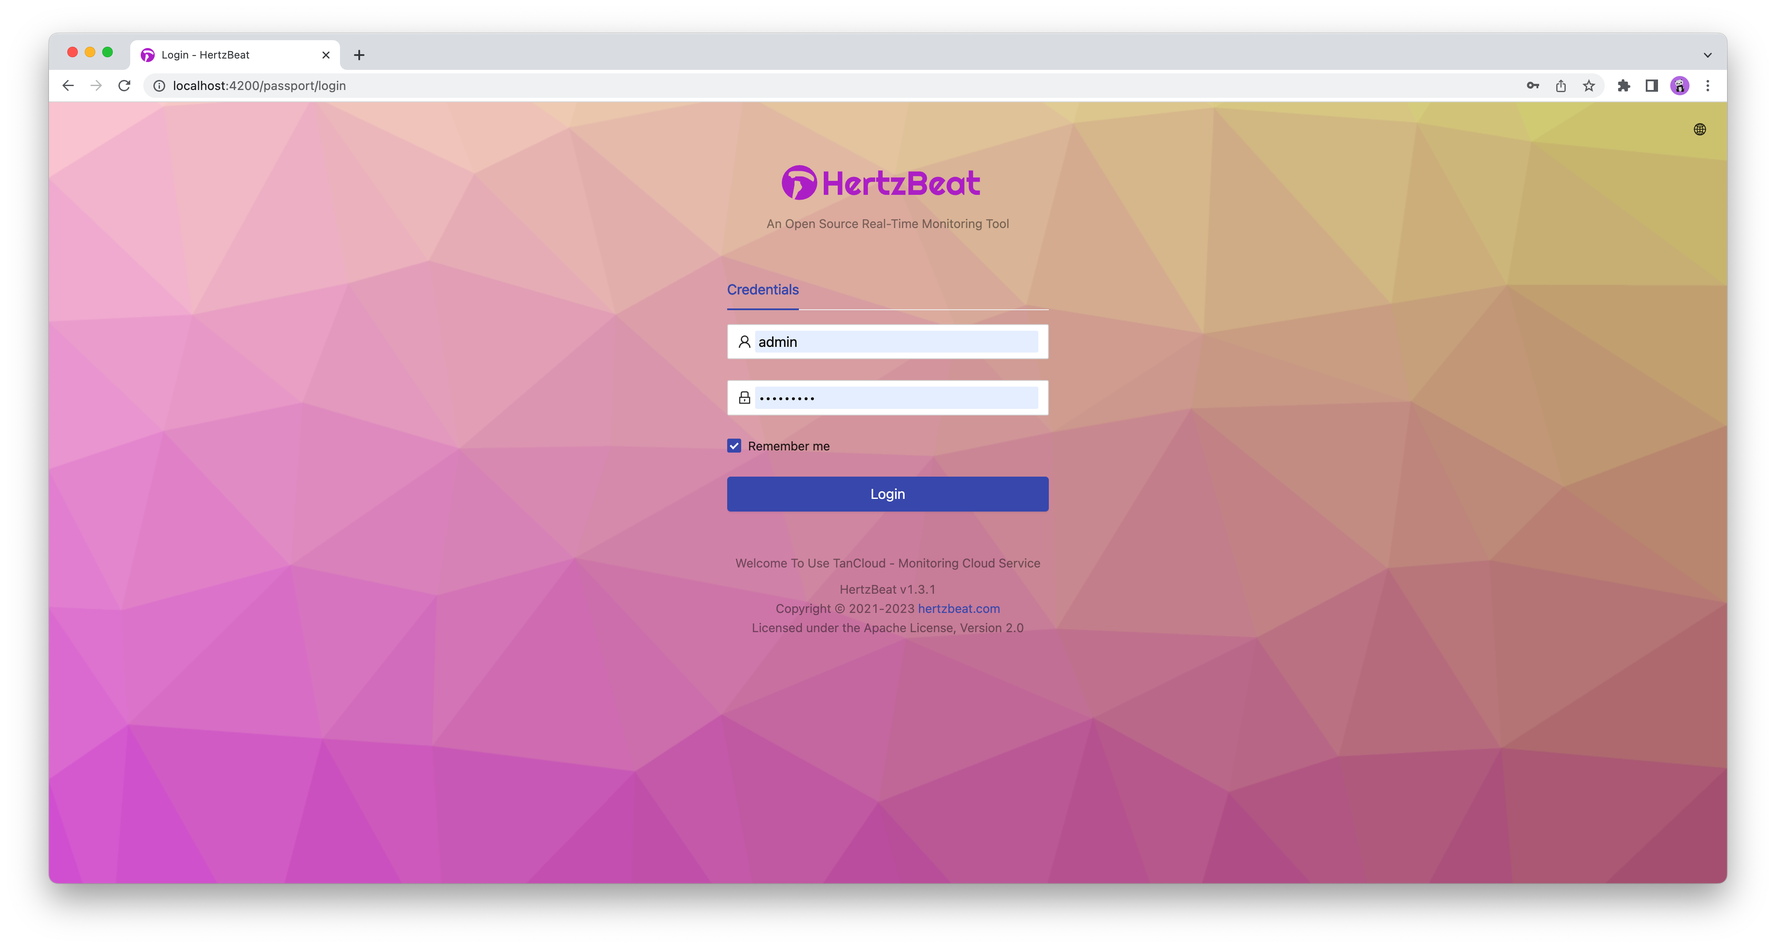
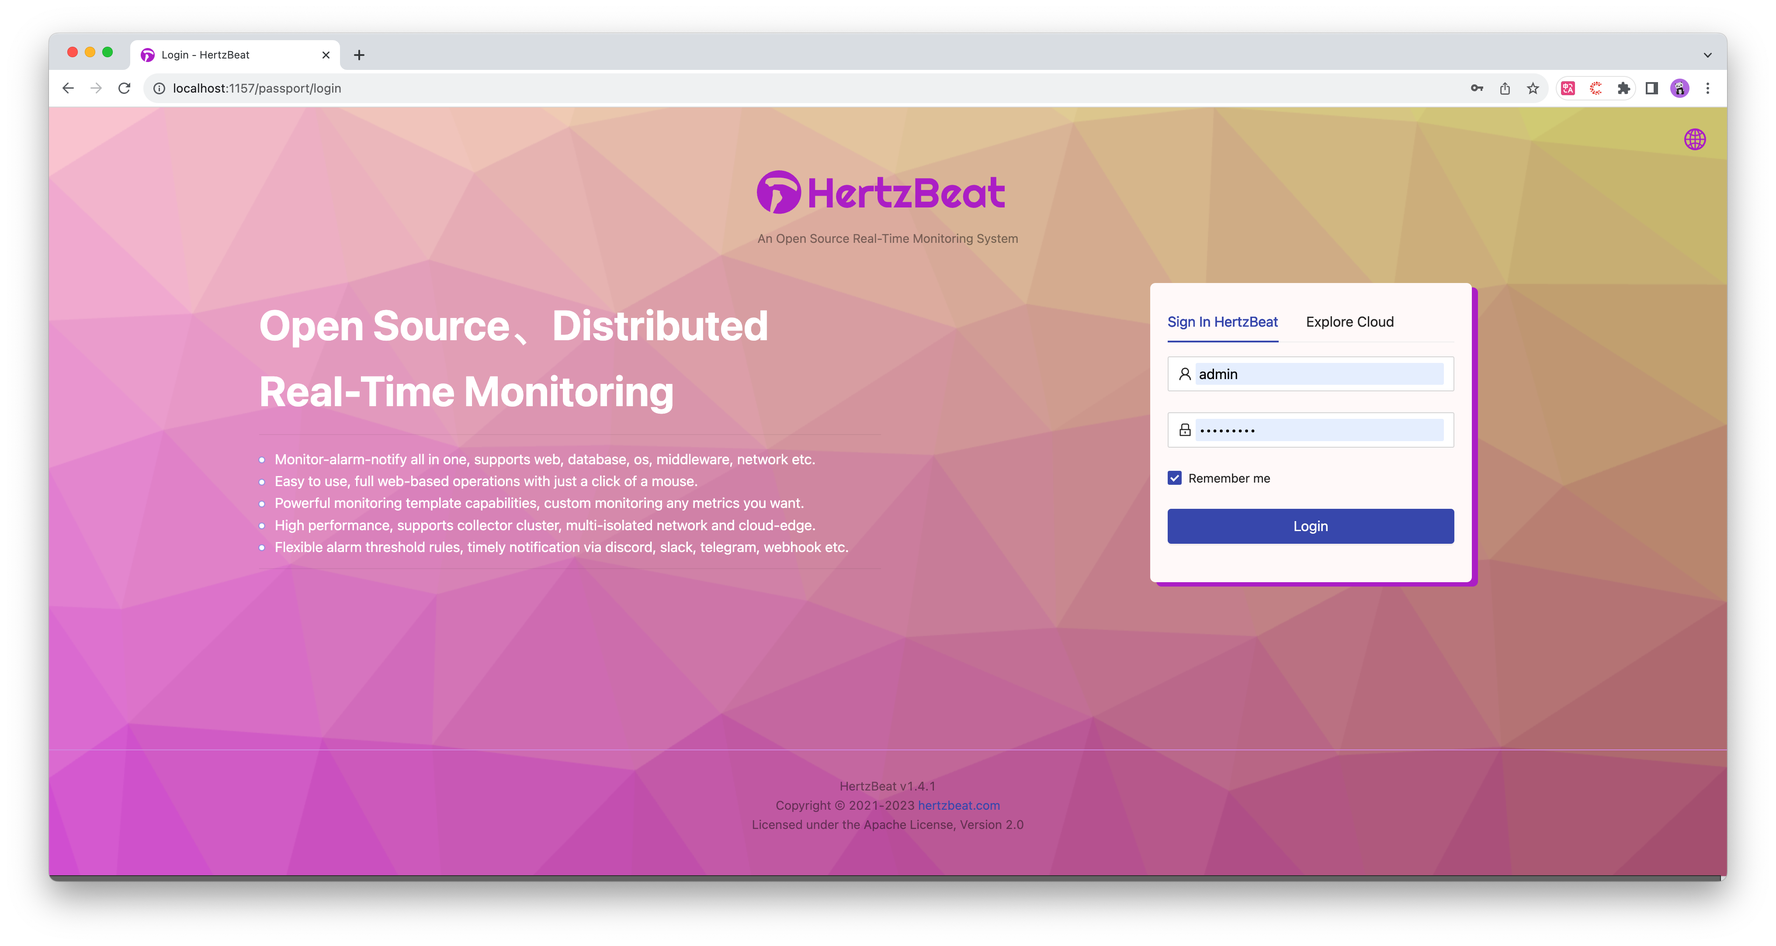
add 1.4.1 version doc

diff --git a/home/src/pages/index.js b/home/src/pages/index.js
@@ -133,6 +133,12 @@ function Home() {
                 <SwiperSlide>
                   <img
                       style={{ width: '1000px', display: 'block', margin: '0 auto' }}
+                      src={useBaseUrl('/img/home/0.png')}
+                  />
+                </SwiperSlide>
+                <SwiperSlide>
+                  <img
+                      style={{ width: '1000px', display: 'block', margin: '0 auto' }}
                       src={useBaseUrl('/img/home/1.png')}
                   />
                 </SwiperSlide>

diff --git a/home/i18n/zh-cn/docusaurus-plugin-content-blog/2023-09-26-hertzbeat-v1.4.1.md b/home/i18n/zh-cn/docusaurus-plugin-content-blog/2023-09-26-hertzbeat-v1.4.1.md
@@ -1,0 +1,166 @@
+---
+title: HertzBeat v1.4.1 发布, 更好的用户体验! 
+author: tom  
+author_title: tom   
+author_url: https://github.com/tomsun28  
+author_image_url: https://avatars.githubusercontent.com/u/24788200?s=400&v=4  
+tags: [opensource, practice]
+keywords: [open source monitoring system, alerting system, Linux monitoring]
+---
+
+![hertzBeat](/img/home/0.png)
+
+### 什么是 HertzBeat?
+
+[HertzBeat 赫兹跳动](https://github.com/dromara/hertzbeat) 是一个拥有强大自定义监控能力，高性能集群，无需 Agent 的开源实时监控告警系统。
+
+### 特点
+
+- 集 **监控+告警+通知** 为一体，支持对应用服务，数据库，操作系统，中间件，云原生，网络等监控阈值告警通知一步到位。
+- 易用友好，无需 `Agent`，全 `WEB` 页面操作，鼠标点一点就能监控告警，零上手学习成本。
+- 将 `Http,Jmx,Ssh,Snmp,Jdbc` 等协议规范可配置化，只需在浏览器配置监控模版 `YML` 就能使用这些协议去自定义采集想要的指标。您相信只需配置下就能立刻适配一款 `K8s` 或 `Docker` 等新的监控类型吗？
+- 高性能，支持多采集器集群横向扩展，支持多隔离网络监控，云边协同。
+- 自由的告警阈值规则，`邮件` `Discord` `Slack` `Telegram` `钉钉` `微信` `飞书` `短信` `Webhook` 等方式消息及时送达。
+
+
+> `HertzBeat`的强大自定义，多类型支持，高性能，易扩展，低耦合，希望能帮助开发者和团队快速搭建自有监控系统。    
+> 当然我们也提供了对应的 **[SAAS版本监控云服务](https://console.tancloud.cn)**，中小团队和个人无需再为监控自有资源而去部署一套监控系统，**[登录即可免费开始](https://console.tancloud.cn)**。
+
+![hertzBeat](/img/docs/hertzbeat-arch.png)
+
+**Github: https://github.com/dromara/hertzbeat**
+
+**Gitee: https://gitee.com/dromara/hertzbeat**
+
+### HertzBeat's 1.4.1 version is coming!
+
+- 新的登陆页面UI
+
+  <img width="1952" alt="image" src="https://github.com/dromara/hertzbeat/assets/24788200/5bc5015a-9343-472d-9754-6b06b9138893"/>
+
+  <img width="1950" alt="image" src="https://github.com/dromara/hertzbeat/assets/24788200/71a29284-9cad-4ed2-983a-50430ddb1e2f"/>
+
+- 支持采集器集群管理
+
+<img width="1943" alt="image" src="https://github.com/dromara/hertzbeat/assets/24788200/ba79f743-a450-4b01-adf0-5f15f3722c19"/>
+
+<img width="1901" alt="image" src="https://github.com/dromara/hertzbeat/assets/24788200/b090ec18-5aae-444e-9ef6-e62fd1d8d239"/>
+
+- 友好的帮助文档头
+
+<img width="1942" alt="image" src="https://github.com/dromara/hertzbeat/assets/24788200/c635fab6-504b-47de-9b7e-0c2df86f7e6a"/>
+
+- 监控指标名称国际化
+
+<img width="1802" alt="image" src="https://github.com/dromara/hertzbeat/assets/24788200/d5c74647-6c18-4b12-b858-f29cf1c61661"/>
+
+- 重构采集器调度和更多特性，更强的稳定性
+
+### 尝试部署集群版
+
+
+1. `docker` 环境仅需一条命令即可开始
+
+```docker run -d -p 1157:1157 -p 1158:1158 --name hertzbeat tancloud/hertzbeat```
+
+```或者使用 quay.io (若 dockerhub 网络链接超时)```
+
+```docker run -d -p 1157:1157 -p 1158:1158 --name hertzbeat quay.io/tancloud/hertzbeat```
+
+2. 浏览器访问 `http://localhost:1157` 即可开始，默认账号密码 `admin/hertzbeat`
+
+3. 部署采集器集群
+
+```
+docker run -d -e IDENTITY=custom-collector-name -e MANAGER_HOST=127.0.0.1 -e MANAGER_PORT=1158 --name hertzbeat-collector tancloud/hertzbeat-collector
+```
+- `-e IDENTITY=custom-collector-name` : 配置此采集器的唯一性标识符名称，多个采集器名称不能相同，建议自定义英文名称。
+- `-e MANAGER_HOST=127.0.0.1` : 配置连接主HertaBeat服务的对外IP。
+- `-e MANAGER_PORT=1158` : 配置连接主HertzBeat服务的对外端口，默认1158。
+
+更多配置详细步骤参考 [通过Docker方式安装HertzBeat](https://hertzbeat.com/docs/start/docker-deploy)
+
+
+
+----
+
+### What's Changed
+
+> 更多版本新功能更新欢迎探索，感谢社区小伙伴们的辛苦贡献，爱心💗!
+
+* bugfix npe when get undefined name monitor template yml by @tomsun28 in https://github.com/dromara/hertzbeat/pull/1173
+* [bug fixed]When importing and exporting monitoring, support export collectors, configure collectors when importing by @zqr10159 in https://github.com/dromara/hertzbeat/pull/1178
+* support alert threshold rule config system value row count by @tomsun28 in https://github.com/dromara/hertzbeat/pull/1180
+* Update README.md by @zqr10159 in https://github.com/dromara/hertzbeat/pull/1182
+* support config alert threshold tags bind by @tomsun28 in https://github.com/dromara/hertzbeat/pull/1181
+* the back-end of help component has been built by @YutingNie in https://github.com/dromara/hertzbeat/pull/1160
+* support enable alert threshold auto resolved notice by @tomsun28 in https://github.com/dromara/hertzbeat/pull/1185
+* Delete tag of the dashboard's homepage on the top four pages by @Ceilzcx in https://github.com/dromara/hertzbeat/pull/1189
+* replace obsolete `registry.npm.taobao.org` to`registry.npmmirror.com` by @zqr10159 in https://github.com/dromara/hertzbeat/pull/1192
+* refactor MonitorServiceImpl by @Carpe-Wang in https://github.com/dromara/hertzbeat/pull/1190
+* config default system timezone and fix monitor status auto recover by @tomsun28 in https://github.com/dromara/hertzbeat/pull/1187
+* update-doc-doris by @zqr10159 in https://github.com/dromara/hertzbeat/pull/1193
+* [manager] support tidb database monitoring  by @luxx-lq in https://github.com/dromara/hertzbeat/pull/733
+* refactor fix potential npe by @Carpe-Wang in https://github.com/dromara/hertzbeat/pull/1197
+* [ospp] support ui help massage component  by @YutingNie in https://github.com/dromara/hertzbeat/pull/1199
+* support monitor metrics name i18n by @tomsun28 in https://github.com/dromara/hertzbeat/pull/1198
+* support google analytics by @tomsun28 in https://github.com/dromara/hertzbeat/pull/1202
+* refactor code and fix some npe  by @Carpe-Wang in https://github.com/dromara/hertzbeat/pull/1201
+* bugfix fix found 2 dataQueue bean when not config common.queue param by @tomsun28 in https://github.com/dromara/hertzbeat/pull/1205
+* Help component update by @YutingNie in https://github.com/dromara/hertzbeat/pull/1207
+* bugfix enterprise wechat push display content is too cumbersome by @l646505418 in https://github.com/dromara/hertzbeat/pull/1149
+* bugfix WeChatAppAlertNotifyHandlerImpl by @LINGLUOJUN in https://github.com/dromara/hertzbeat/pull/1208
+* add LINGLUOJUN as a contributor for code by @allcontributors in https://github.com/dromara/hertzbeat/pull/1209
+* fix jmx jndi inject vulnerability by @luelueking in https://github.com/dromara/hertzbeat/pull/1215
+* add luelueking as a contributor for code by @allcontributors in https://github.com/dromara/hertzbeat/pull/1217
+* bugfix monitoring param number limit range by @qyaaaa in https://github.com/dromara/hertzbeat/pull/1216
+* add qyaaaa as a contributor for code by @allcontributors in https://github.com/dromara/hertzbeat/pull/1218
+* add app-ping i18n by @qyaaaa in https://github.com/dromara/hertzbeat/pull/1220
+* some codes opt by @LINGLUOJUN in https://github.com/dromara/hertzbeat/pull/1214
+* support deploy hertzbeat by kubernetes helm charts by @tomsun28 in https://github.com/dromara/hertzbeat/pull/1221
+* bugfix threshold setting template variables has repeated parameters by @qyaaaa in https://github.com/dromara/hertzbeat/pull/1223
+* support display metrics i18n label when threshold setting by @tomsun28 in https://github.com/dromara/hertzbeat/pull/1225
+* bugfix user role display not correctly on webui by @tomsun28 in https://github.com/dromara/hertzbeat/pull/1227
+* add hertzbeat about msg card by @tomsun28 in https://github.com/dromara/hertzbeat/pull/1229
+* add app-api i18n by @novohit in https://github.com/dromara/hertzbeat/pull/1236
+* add novohit as a contributor for code by @allcontributors in https://github.com/dromara/hertzbeat/pull/1238
+* [feature]Add `getAlertDefinesByName`. by @zqr10159 in https://github.com/dromara/hertzbeat/pull/1237
+* thread pool executor support shutdown gracefully by @LINGLUOJUN in https://github.com/dromara/hertzbeat/pull/1240
+* fix: expression injection RCE by @mikezzb in https://github.com/dromara/hertzbeat/pull/1241
+* [bugfix]Replace schema "{key1:value1}" to "{\"key1\":\"value1\"}" by @zqr10159 in https://github.com/dromara/hertzbeat/pull/1245
+* [Refactor] Use static methods instead of constructors for Message.java by @gcdd1993 in https://github.com/dromara/hertzbeat/pull/1247
+* bugfix snake yaml decode rce by @tomsun28 in https://github.com/dromara/hertzbeat/pull/1239
+* bugfix jackson deserialize localDatetime error by @tomsun28 in https://github.com/dromara/hertzbeat/pull/1249
+* netty as an independent module, add new feature about collector list by @Ceilzcx in https://github.com/dromara/hertzbeat/pull/1244
+* support show deploy collector script in web by @tomsun28 in https://github.com/dromara/hertzbeat/pull/1251
+* bugfix mongodb collect extra metrics npe by @tomsun28 in https://github.com/dromara/hertzbeat/pull/1257
+* bugfix fix collector run cyclic when connect auth failed by @tomsun28 in https://github.com/dromara/hertzbeat/pull/1256
+* update webapp login ui by @tomsun28 in https://github.com/dromara/hertzbeat/pull/1260
+* bugfix collector can not auto reconnect when channel idle by @tomsun28 in https://github.com/dromara/hertzbeat/pull/1259
+* update alarm notice wework app send content ui by @tomsun28 in https://github.com/dromara/hertzbeat/pull/1258
+* [hertzbeat] release hertzbeat version v1.4.1 by @tomsun28 in https://github.com/dromara/hertzbeat/pull/1261
+* auto split webhook token when user input hook url by @tomsun28 in https://github.com/dromara/hertzbeat/pull/1262
+
+----
+
+## ⛄ 已支持
+
+> 我们将监控采集类型(mysql,jvm,k8s)都定义为yml监控模版，用户可以导入这些模版来支持对应类型的监控!    
+> 欢迎大家一起贡献你使用过程中自定义的通用监控类型监控模版。
+
+- Site Monitor, Port Availability, Http Api, Ping Connectivity, Jvm, SiteMap Full Site, Ssl Certificate, SpringBoot, FTP Server
+- Mysql, PostgreSQL, MariaDB, Redis, ElasticSearch, SqlServer, Oracle, MongoDB, Damon, OpenGauss, ClickHouse, IoTDB, Redis Cluster
+- Linux, Ubuntu, CentOS, Windows
+- Tomcat, Nacos, Zookeeper, RabbitMQ, Flink, Kafka, ShenYu, DynamicTp, Jetty, ActiveMQ
+- Kubernetes, Docker
+- Huawei Switch, HPE Switch, TP-LINK Switch, Cisco Switch
+- and more for your custom monitoring.
+- Notifications support `Discord` `Slack` `Telegram` `Mail` `Pinning` `WeChat` `FlyBook` `SMS` `Webhook`.
+- 和更多自定义监控模版。
+- 通知支持 `Discord` `Slack` `Telegram` `邮件` `钉钉` `微信` `飞书` `短信` `Webhook`。
+
+----
+
+**Github: https://github.com/dromara/hertzbeat**      
+**Gitee: https://gitee.com/dromara/hertzbeat**  
+

diff --git a/home/blog/2023-09-26-hertzbeat-v1.4.1.md b/home/blog/2023-09-26-hertzbeat-v1.4.1.md
@@ -1,0 +1,160 @@
+---
+title: HertzBeat v1.4.1 released, better experience! 
+author: tom  
+author_title: tom   
+author_url: https://github.com/tomsun28  
+author_image_url: https://avatars.githubusercontent.com/u/24788200?s=400&v=4  
+tags: [opensource, practice]
+keywords: [open source monitoring system, alerting system, Linux monitoring]
+---
+
+![hertzBeat](/img/home/0.png)
+
+### What is HertzBeat?
+
+[HertzBeat](https://github.com/dromara/hertzbeat) is an open source, real-time monitoring system with custom monitoring, high performance cluster and agentless capabilities.
+
+### Features
+
+* Combines **monitoring, alarm, and notification** features into one platform, and supports monitoring for web service, database, os, middleware, cloud-native, network and more.
+* Easy to use and agentless, offering full web-based operations for monitoring and alerting with just a few clicks, all at zero learning cost.
+* Makes protocols such as `Http, Jmx, Ssh, Snmp, Jdbc` configurable, allowing you to collect any metrics by simply configuring the template `YML` file online. Imagine being able to quickly adapt to a new monitoring type like K8s or Docker simply by configuring online with HertzBeat.
+* High performance, supports horizontal expansion of multi-collector clusters, multi-isolated network monitoring and cloud-edge collaboration.
+* Provides flexible alarm threshold rules and timely notifications delivered via  `Discord` `Slack` `Telegram` `Email` `DingDing` `WeChat` `FeiShu` `Webhook` `SMS`.
+
+
+> HertzBeat's powerful customization, multi-type support, high performance, easy expansion, and low coupling, aims to help developers and teams quickly build their own monitoring system.      
+> We also provide **[SaaS Monitoring Cloud](https://console.tancloud.cn)**, users no longer need to deploy a cumbersome monitoring system to monitor their resources. **[Get started online for free](https://console.tancloud.cn)**.
+
+![hertzBeat](/img/docs/hertzbeat-arch.png)
+
+**Github: https://github.com/dromara/hertzbeat**
+
+**Gitee: https://gitee.com/dromara/hertzbeat**
+
+### HertzBeat's 1.4.1 version is coming!
+
+- new login page
+
+  <img width="1952" alt="image" src="https://github.com/dromara/hertzbeat/assets/24788200/5bc5015a-9343-472d-9754-6b06b9138893"/>
+
+  <img width="1950" alt="image" src="https://github.com/dromara/hertzbeat/assets/24788200/71a29284-9cad-4ed2-983a-50430ddb1e2f"/>
+
+- collector manage
+
+<img width="1943" alt="image" src="https://github.com/dromara/hertzbeat/assets/24788200/ba79f743-a450-4b01-adf0-5f15f3722c19"/>
+
+<img width="1901" alt="image" src="https://github.com/dromara/hertzbeat/assets/24788200/b090ec18-5aae-444e-9ef6-e62fd1d8d239"/>
+
+
+- new help moudle
+
+<img width="1942" alt="image" src="https://github.com/dromara/hertzbeat/assets/24788200/c635fab6-504b-47de-9b7e-0c2df86f7e6a"/>
+
+- monitor metrics dashboard name i18n
+
+<img width="1802" alt="image" src="https://github.com/dromara/hertzbeat/assets/24788200/d5c74647-6c18-4b12-b858-f29cf1c61661"/>
+
+- refactor collector dispatcher and more
+
+### Install quickly via docker
+
+1. Just one command to get started:
+
+```docker run -d -p 1157:1157 -p 1158:1158 --name hertzbeat tancloud/hertzbeat```
+
+```or use quay.io (if dockerhub network connect timeout)```
+
+```docker run -d -p 1157:1157 -p 1158:1158 --name hertzbeat quay.io/tancloud/hertzbeat```
+
+2. Access `http://localhost:1157` to start, default account: `admin/hertzbeat`
+
+3. Deploy collector clusters
+
+```
+docker run -d -e IDENTITY=custom-collector-name -e MANAGER_HOST=127.0.0.1 -e MANAGER_PORT=1158 --name hertzbeat-collector tancloud/hertzbeat-collector
+```
+- `-e IDENTITY=custom-collector-name` : set the collector unique identity name.
+- `-e MANAGER_HOST=127.0.0.1` : set the main hertzbeat server ip.
+- `-e MANAGER_PORT=1158` : set the main hertzbeat server port, default 1158.
+
+Detailed config refer to [Install HertzBeat via Docker](https://hertzbeat.com/docs/start/docker-deploy)
+
+
+----
+
+### What's Changed
+
+> Welcome to explore more new version updates, thanks to the hard work of the community partners, love 💗!
+
+* bugfix npe when get undefined name monitor template yml by @tomsun28 in https://github.com/dromara/hertzbeat/pull/1173
+* [bug fixed]When importing and exporting monitoring, support export collectors, configure collectors when importing by @zqr10159 in https://github.com/dromara/hertzbeat/pull/1178
+* support alert threshold rule config system value row count by @tomsun28 in https://github.com/dromara/hertzbeat/pull/1180
+* Update README.md by @zqr10159 in https://github.com/dromara/hertzbeat/pull/1182
+* support config alert threshold tags bind by @tomsun28 in https://github.com/dromara/hertzbeat/pull/1181
+* the back-end of help component has been built by @YutingNie in https://github.com/dromara/hertzbeat/pull/1160
+* support enable alert threshold auto resolved notice by @tomsun28 in https://github.com/dromara/hertzbeat/pull/1185
+* Delete tag of the dashboard's homepage on the top four pages by @Ceilzcx in https://github.com/dromara/hertzbeat/pull/1189
+* replace obsolete `registry.npm.taobao.org` to`registry.npmmirror.com` by @zqr10159 in https://github.com/dromara/hertzbeat/pull/1192
+* refactor MonitorServiceImpl by @Carpe-Wang in https://github.com/dromara/hertzbeat/pull/1190
+* config default system timezone and fix monitor status auto recover by @tomsun28 in https://github.com/dromara/hertzbeat/pull/1187
+* update-doc-doris by @zqr10159 in https://github.com/dromara/hertzbeat/pull/1193
+* [manager] support tidb database monitoring  by @luxx-lq in https://github.com/dromara/hertzbeat/pull/733
+* refactor fix potential npe by @Carpe-Wang in https://github.com/dromara/hertzbeat/pull/1197
+* [ospp] support ui help massage component  by @YutingNie in https://github.com/dromara/hertzbeat/pull/1199
+* support monitor metrics name i18n by @tomsun28 in https://github.com/dromara/hertzbeat/pull/1198
+* support google analytics by @tomsun28 in https://github.com/dromara/hertzbeat/pull/1202
+* refactor code and fix some npe  by @Carpe-Wang in https://github.com/dromara/hertzbeat/pull/1201
+* bugfix fix found 2 dataQueue bean when not config common.queue param by @tomsun28 in https://github.com/dromara/hertzbeat/pull/1205
+* Help component update by @YutingNie in https://github.com/dromara/hertzbeat/pull/1207
+* bugfix enterprise wechat push display content is too cumbersome by @l646505418 in https://github.com/dromara/hertzbeat/pull/1149
+* bugfix WeChatAppAlertNotifyHandlerImpl by @LINGLUOJUN in https://github.com/dromara/hertzbeat/pull/1208
+* add LINGLUOJUN as a contributor for code by @allcontributors in https://github.com/dromara/hertzbeat/pull/1209
+* fix jmx jndi inject vulnerability by @luelueking in https://github.com/dromara/hertzbeat/pull/1215
+* add luelueking as a contributor for code by @allcontributors in https://github.com/dromara/hertzbeat/pull/1217
+* bugfix monitoring param number limit range by @qyaaaa in https://github.com/dromara/hertzbeat/pull/1216
+* add qyaaaa as a contributor for code by @allcontributors in https://github.com/dromara/hertzbeat/pull/1218
+* add app-ping i18n by @qyaaaa in https://github.com/dromara/hertzbeat/pull/1220
+* some codes opt by @LINGLUOJUN in https://github.com/dromara/hertzbeat/pull/1214
+* support deploy hertzbeat by kubernetes helm charts by @tomsun28 in https://github.com/dromara/hertzbeat/pull/1221
+* bugfix threshold setting template variables has repeated parameters by @qyaaaa in https://github.com/dromara/hertzbeat/pull/1223
+* support display metrics i18n label when threshold setting by @tomsun28 in https://github.com/dromara/hertzbeat/pull/1225
+* bugfix user role display not correctly on webui by @tomsun28 in https://github.com/dromara/hertzbeat/pull/1227
+* add hertzbeat about msg card by @tomsun28 in https://github.com/dromara/hertzbeat/pull/1229
+* add app-api i18n by @novohit in https://github.com/dromara/hertzbeat/pull/1236
+* add novohit as a contributor for code by @allcontributors in https://github.com/dromara/hertzbeat/pull/1238
+* [feature]Add `getAlertDefinesByName`. by @zqr10159 in https://github.com/dromara/hertzbeat/pull/1237
+* thread pool executor support shutdown gracefully by @LINGLUOJUN in https://github.com/dromara/hertzbeat/pull/1240
+* fix: expression injection RCE by @mikezzb in https://github.com/dromara/hertzbeat/pull/1241
+* [bugfix]Replace schema "{key1:value1}" to "{\"key1\":\"value1\"}" by @zqr10159 in https://github.com/dromara/hertzbeat/pull/1245
+* [Refactor] Use static methods instead of constructors for Message.java by @gcdd1993 in https://github.com/dromara/hertzbeat/pull/1247
+* bugfix snake yaml decode rce by @tomsun28 in https://github.com/dromara/hertzbeat/pull/1239
+* bugfix jackson deserialize localDatetime error by @tomsun28 in https://github.com/dromara/hertzbeat/pull/1249
+* netty as an independent module, add new feature about collector list by @Ceilzcx in https://github.com/dromara/hertzbeat/pull/1244
+* support show deploy collector script in web by @tomsun28 in https://github.com/dromara/hertzbeat/pull/1251
+* bugfix mongodb collect extra metrics npe by @tomsun28 in https://github.com/dromara/hertzbeat/pull/1257
+* bugfix fix collector run cyclic when connect auth failed by @tomsun28 in https://github.com/dromara/hertzbeat/pull/1256
+* update webapp login ui by @tomsun28 in https://github.com/dromara/hertzbeat/pull/1260
+* bugfix collector can not auto reconnect when channel idle by @tomsun28 in https://github.com/dromara/hertzbeat/pull/1259
+* update alarm notice wework app send content ui by @tomsun28 in https://github.com/dromara/hertzbeat/pull/1258
+* [hertzbeat] release hertzbeat version v1.4.1 by @tomsun28 in https://github.com/dromara/hertzbeat/pull/1261
+* auto split webhook token when user input hook url by @tomsun28 in https://github.com/dromara/hertzbeat/pull/1262
+
+----
+
+## ⛄ Supported
+
+- Site Monitor, Port Availability, Http Api, Ping Connectivity, Jvm, SiteMap Full Site, Ssl Certificate, SpringBoot, FTP Server
+- Mysql, PostgreSQL, MariaDB, Redis, ElasticSearch, SqlServer, Oracle, MongoDB, Damon, OpenGauss, ClickHouse, IoTDB, Redis Cluster
+- Linux, Ubuntu, CentOS, Windows
+- Tomcat, Nacos, Zookeeper, RabbitMQ, Flink, Kafka, ShenYu, DynamicTp, Jetty, ActiveMQ
+- Kubernetes, Docker
+- Huawei Switch, HPE Switch, TP-LINK Switch, Cisco Switch
+- and more for your custom monitoring.
+- Notifications support `Discord` `Slack` `Telegram` `Mail` `Pinning` `WeChat` `FlyBook` `SMS` `Webhook`.
+
+----
+
+**Github: https://github.com/dromara/hertzbeat**      
+**Gitee: https://gitee.com/dromara/hertzbeat**  
+

diff --git a/home/blog/2023-08-14-hertzbeat-v1.4.0.md b/home/blog/2023-08-14-hertzbeat-v1.4.0.md
@@ -8,8 +8,7 @@ tags: [opensource, practice]
 keywords: [open source monitoring system, alerting system, Linux monitoring]
 ---
 
-![](https://p3-juejin.byteimg.com/tos-cn-i-k3u1fbpfcp/a9629ef5bb6e486cacddb899f1495c6e~tplv-k3u1fbpfcp-zoom-1.image)
-
+![hertzBeat](/img/home/0.png)
 
 ### What is HertzBeat?
 
@@ -90,10 +89,10 @@ By the way, let me say that open source does not mean free. If you modify the lo
 3. Deploy collector clusters
 
 ```
-docker run -d -e IDENTITY=custom-collector-name -e MANAGER_HOST=127.0.0.1 -e MANAGER_PORT=1158 --name hertzbeat-collector tancloud/hertzbeat-collector
+docker run -d -e IDENTITY=custom-collector-name -e MANAGER_IP=127.0.0.1 -e MANAGER_PORT=1158 --name hertzbeat-collector tancloud/hertzbeat-collector
 ```
 - `-e IDENTITY=custom-collector-name` : set the collector unique identity name.
-- `-e MANAGER_HOST=127.0.0.1` : set the main hertzbeat server ip.
+- `-e MANAGER_IP=127.0.0.1` : set the main hertzbeat server ip.
 - `-e MANAGER_PORT=1158` : set the main hertzbeat server port, default 1158.
 
 Detailed config refer to [Install HertzBeat via Docker](https://hertzbeat.com/docs/start/docker-deploy)
